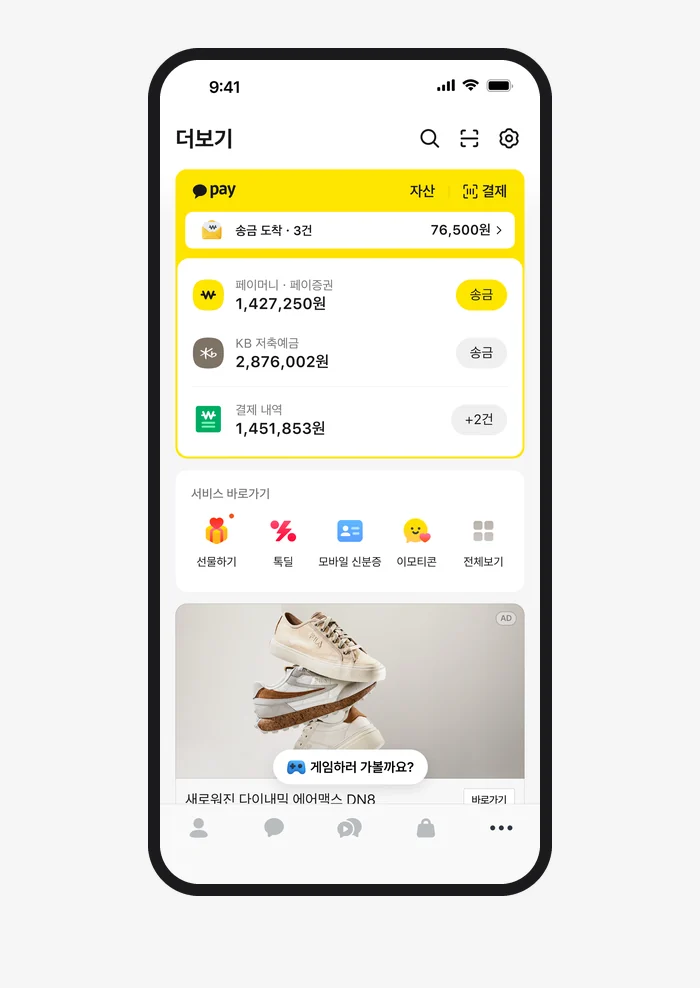
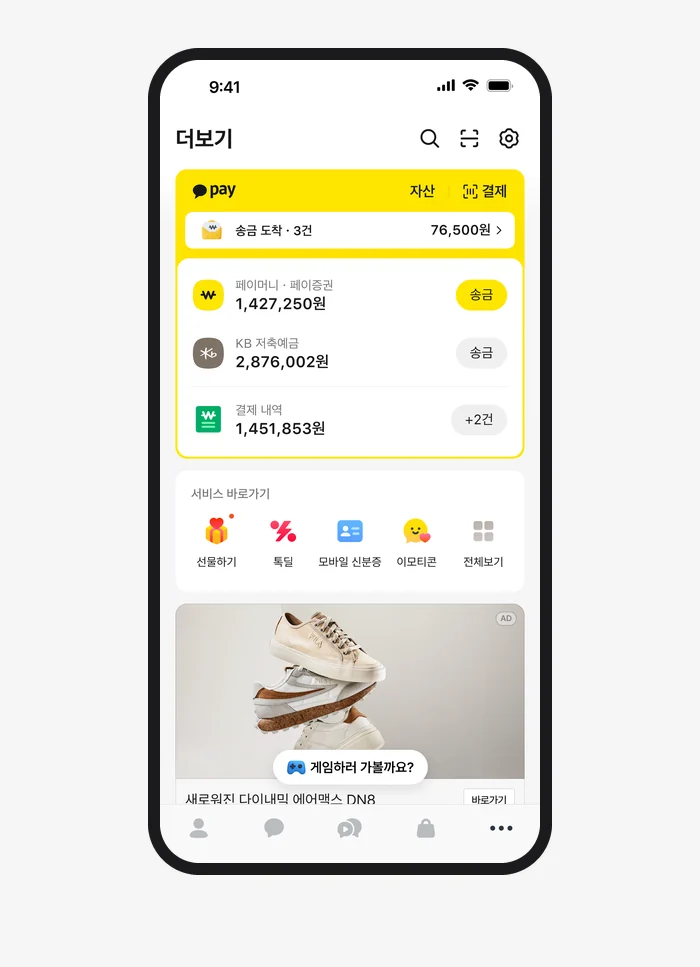
iOS 탭바 아래 OS 여백을 높이째 제거, 탭바 높이 통일

diff --git a/grid-list-hybrid.html b/grid-list-hybrid.html
@@ -23,8 +23,8 @@
   <article class="cs">
     <figure class="cs-hero">
       <picture>
-        <source media="(max-width:820px)" srcset="img/case03/hero-m-v5.webp?v=tb2" width="700" height="989">
-        <img src="img/case03/hero-v5.webp?v=tb2" width="2240" height="1490" alt="실험안 D 더보기탭 화면을 폰 두 대로 보여준다. 왼쪽은 첫 화면으로 상단 제목·칩·페이 영역·4열 2행 그리드·광고, 오른쪽은 아래로 스크롤한 화면으로 라이프·쇼핑 카테고리 리스트. 좁은 화면에서는 첫 화면 한 대만 보인다">
+        <source media="(max-width:820px)" srcset="img/case03/hero-m-v5.webp?v=tb3" width="700" height="989">
+        <img src="img/case03/hero-v5.webp?v=tb3" width="2240" height="1490" alt="실험안 D 더보기탭 화면을 폰 두 대로 보여준다. 왼쪽은 첫 화면으로 상단 제목·칩·페이 영역·4열 2행 그리드·광고, 오른쪽은 아래로 스크롤한 화면으로 라이프·쇼핑 카테고리 리스트. 좁은 화면에서는 첫 화면 한 대만 보인다">
       </picture>
     </figure>
 
@@ -109,11 +109,11 @@
     </section>
 
     <section class="cs-block">
-      <figure class="cs-fig cs-stage cs-abc-d" style="--cb:7.16%">
-        <img src="img/case03/next-trio.webp?v=tb2" width="2240" height="1341" alt="후속 보완안 세 화면. 그리드 아래 최근 사용 서비스, 직접 고르는 내 바로가기, 카테고리 탭으로 바로 이동하는 리스트" loading="lazy">
+      <figure class="cs-fig cs-stage cs-abc-d" style="--cb:7.3%">
+        <img src="img/case03/next-trio.webp?v=tb3" width="2240" height="1315" alt="후속 보완안 세 화면. 그리드 아래 최근 사용 서비스, 직접 고르는 내 바로가기, 카테고리 탭으로 바로 이동하는 리스트" loading="lazy">
         <figcaption style="left:22.77%">최근 사용 서비스</figcaption><figcaption style="left:50.0%">내 바로가기</figcaption><figcaption style="left:77.23%">카테고리 바로 이동</figcaption>
       </figure>
-      <div class="cs-abc-m"><figure class="cs-stage" style="--cbm:4.05%"><img src="img/case03/next-recent-m.webp?v=tb2" width="700" height="988" alt="최근 사용 서비스 보완안" loading="lazy"><figcaption>최근 사용 서비스</figcaption></figure><figure class="cs-stage" style="--cbm:4.05%"><img src="img/case03/next-pinned-m.webp?v=tb2" width="700" height="988" alt="내 바로가기 보완안" loading="lazy"><figcaption>내 바로가기</figcaption></figure><figure class="cs-stage" style="--cbm:4.05%"><img src="img/case03/next-category-m.webp?v=tb2" width="700" height="988" alt="카테고리 바로 이동 보완안" loading="lazy"><figcaption>카테고리 바로 이동</figcaption></figure></div>
+      <div class="cs-abc-m"><figure class="cs-stage" style="--cbm:4.14%"><img src="img/case03/next-recent-m.webp?v=tb3" width="700" height="967" alt="최근 사용 서비스 보완안" loading="lazy"><figcaption>최근 사용 서비스</figcaption></figure><figure class="cs-stage" style="--cbm:4.14%"><img src="img/case03/next-pinned-m.webp?v=tb3" width="700" height="967" alt="내 바로가기 보완안" loading="lazy"><figcaption>내 바로가기</figcaption></figure><figure class="cs-stage" style="--cbm:4.14%"><img src="img/case03/next-category-m.webp?v=tb3" width="700" height="967" alt="카테고리 바로 이동 보완안" loading="lazy"><figcaption>카테고리 바로 이동</figcaption></figure></div>
       <div class="cs-sec cs-col">
         <p class="cs-label">다음 판단</p>
         <h2>자주 쓰던 서비스로 돌아가는 길을 다시 설계하고 있습니다</h2>

diff --git a/list-exploration.html b/list-exploration.html
@@ -41,11 +41,11 @@
 
 
     <section class="cs-block">
-      <figure class="cs-fig cs-stage cs-abc-d" style="--cb:6.82%">
-        <img src="img/case02/scroll-pair-v2.webp?v=tb2" width="2240" height="1408" alt="스크롤 유도 시안 두 장. 왼쪽은 하단에 뜨는 플로팅 버튼이 광고 위에 겹치고, 오른쪽은 칩 줄 위에 뜬 상단 안내가 페이 영역을 아래로 밀어낸다" loading="lazy">
+      <figure class="cs-fig cs-stage cs-abc-d" style="--cb:6.96%">
+        <img src="img/case02/scroll-pair-v2.webp?v=tb3" width="2240" height="1380" alt="스크롤 유도 시안 두 장. 왼쪽은 하단에 뜨는 플로팅 버튼이 광고 위에 겹치고, 오른쪽은 칩 줄 위에 뜬 상단 안내가 페이 영역을 아래로 밀어낸다" loading="lazy">
         <figcaption style="left:33.66%">하단 플로팅 버튼</figcaption><figcaption style="left:66.34%">상단 스크롤 안내</figcaption>
       </figure>
-      <div class="cs-abc-m"><figure class="cs-stage" style="--cbm:4.05%"><img src="img/case02/scroll-a-m.webp?v=tb2" width="700" height="988" alt="하단 플로팅 버튼 시안. 버튼이 광고 위에 겹친다" loading="lazy"><figcaption>하단 플로팅 버튼</figcaption></figure><figure class="cs-stage" style="--cbm:4.05%"><img src="img/case02/scroll-d-m-v2.webp?v=tb2" width="700" height="988" alt="상단 스크롤 안내 시안. 안내가 페이 영역을 아래로 밀어낸다" loading="lazy"><figcaption>상단 스크롤 안내</figcaption></figure></div>
+      <div class="cs-abc-m"><figure class="cs-stage" style="--cbm:4.14%"><img src="img/case02/scroll-a-m.webp?v=tb3" width="700" height="967" alt="하단 플로팅 버튼 시안. 버튼이 광고 위에 겹친다" loading="lazy"><figcaption>하단 플로팅 버튼</figcaption></figure><figure class="cs-stage" style="--cbm:4.14%"><img src="img/case02/scroll-d-m-v2.webp?v=tb3" width="700" height="967" alt="상단 스크롤 안내 시안. 안내가 페이 영역을 아래로 밀어낸다" loading="lazy"><figcaption>상단 스크롤 안내</figcaption></figure></div>
       <div class="cs-sec cs-col">
         <p class="cs-label">출발점</p>
         <h2>스크롤을 유도하는 장치는 다른 영역을 가렸습니다</h2>
@@ -137,7 +137,7 @@
 
     <section class="cs-block">
       <figure class="cs-fig cs-stage" style="--cb:6.82%;--cbm:4.05%">
-        <picture><source media="(max-width:820px)" srcset="img/case02/next-mixed-m.webp?v=tb2" width="700" height="988"><img src="img/case02/next-mixed.webp?v=tb2" width="2240" height="1408" alt="다음 실험의 혼합 UI 첫 화면. 4열 2행 그리드와 광고 아래로 카테고리 리스트가 이어진다" loading="lazy"></picture>
+        <picture><source media="(max-width:820px)" srcset="img/case02/next-mixed-m.webp?v=tb3" width="700" height="988"><img src="img/case02/next-mixed.webp?v=tb3" width="2240" height="1408" alt="다음 실험의 혼합 UI 첫 화면. 4열 2행 그리드와 광고 아래로 카테고리 리스트가 이어진다" loading="lazy"></picture>
         <figcaption style="left:50%">다음 실험 · 그리드와 리스트를 함께</figcaption>
       </figure>
       <div class="cs-sec cs-col">
